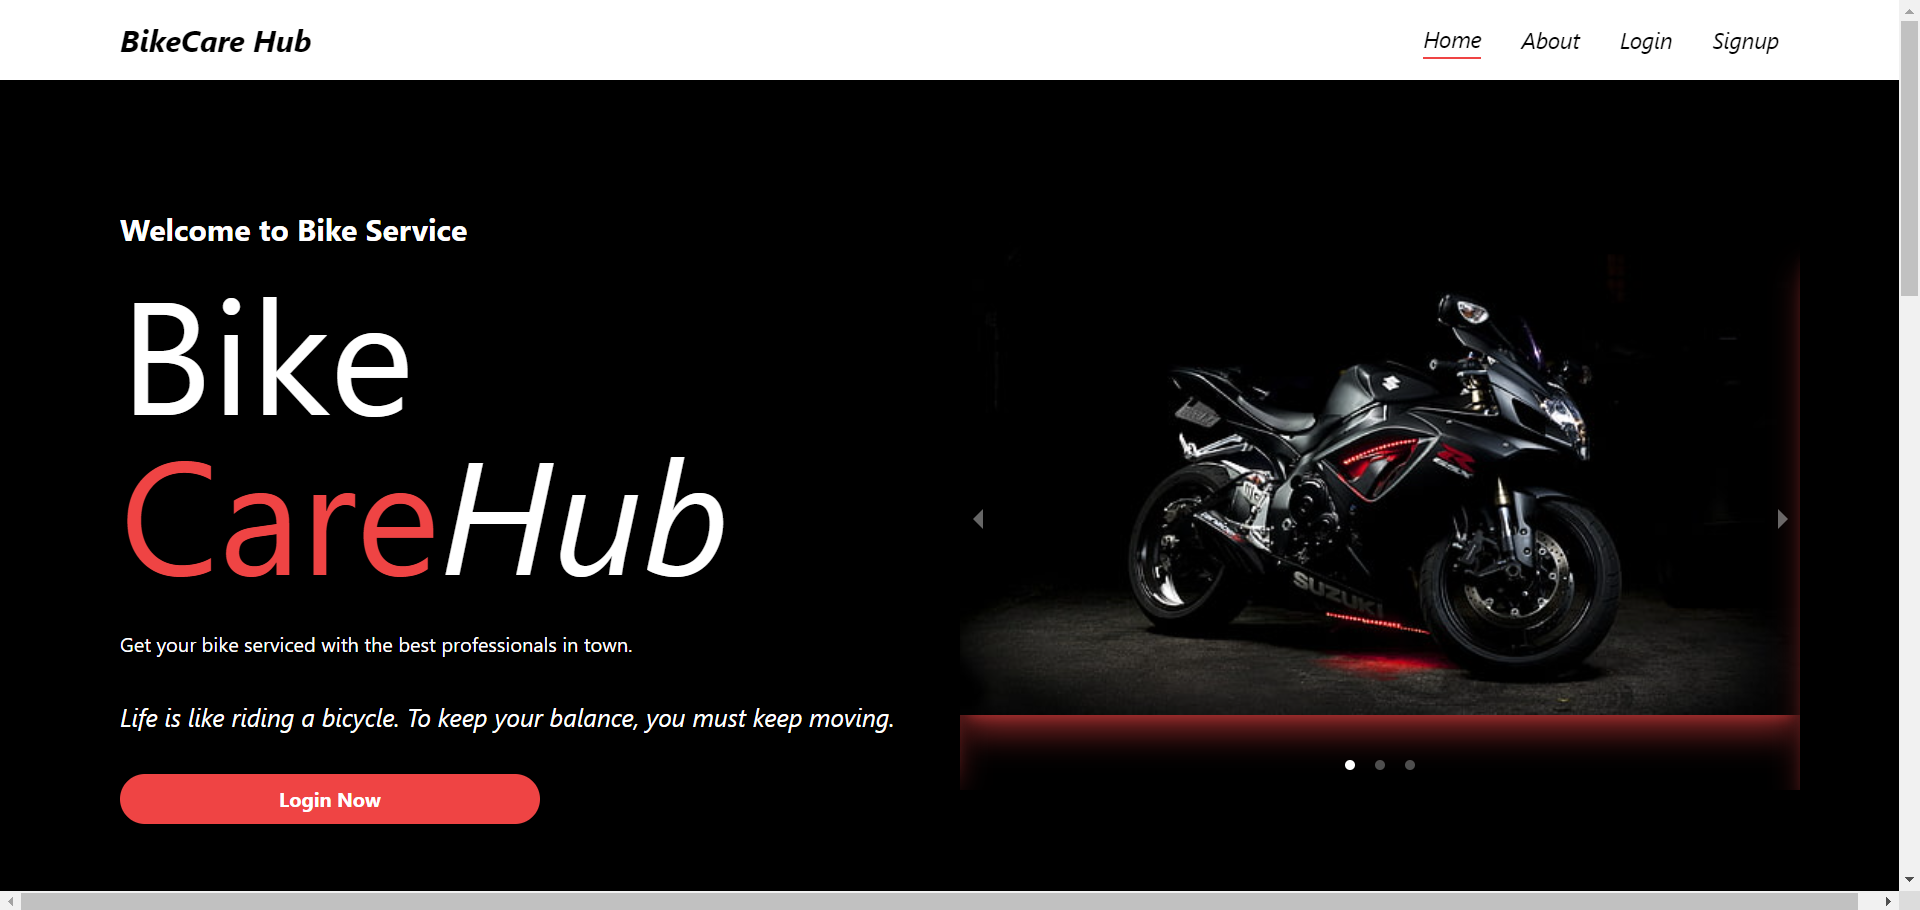
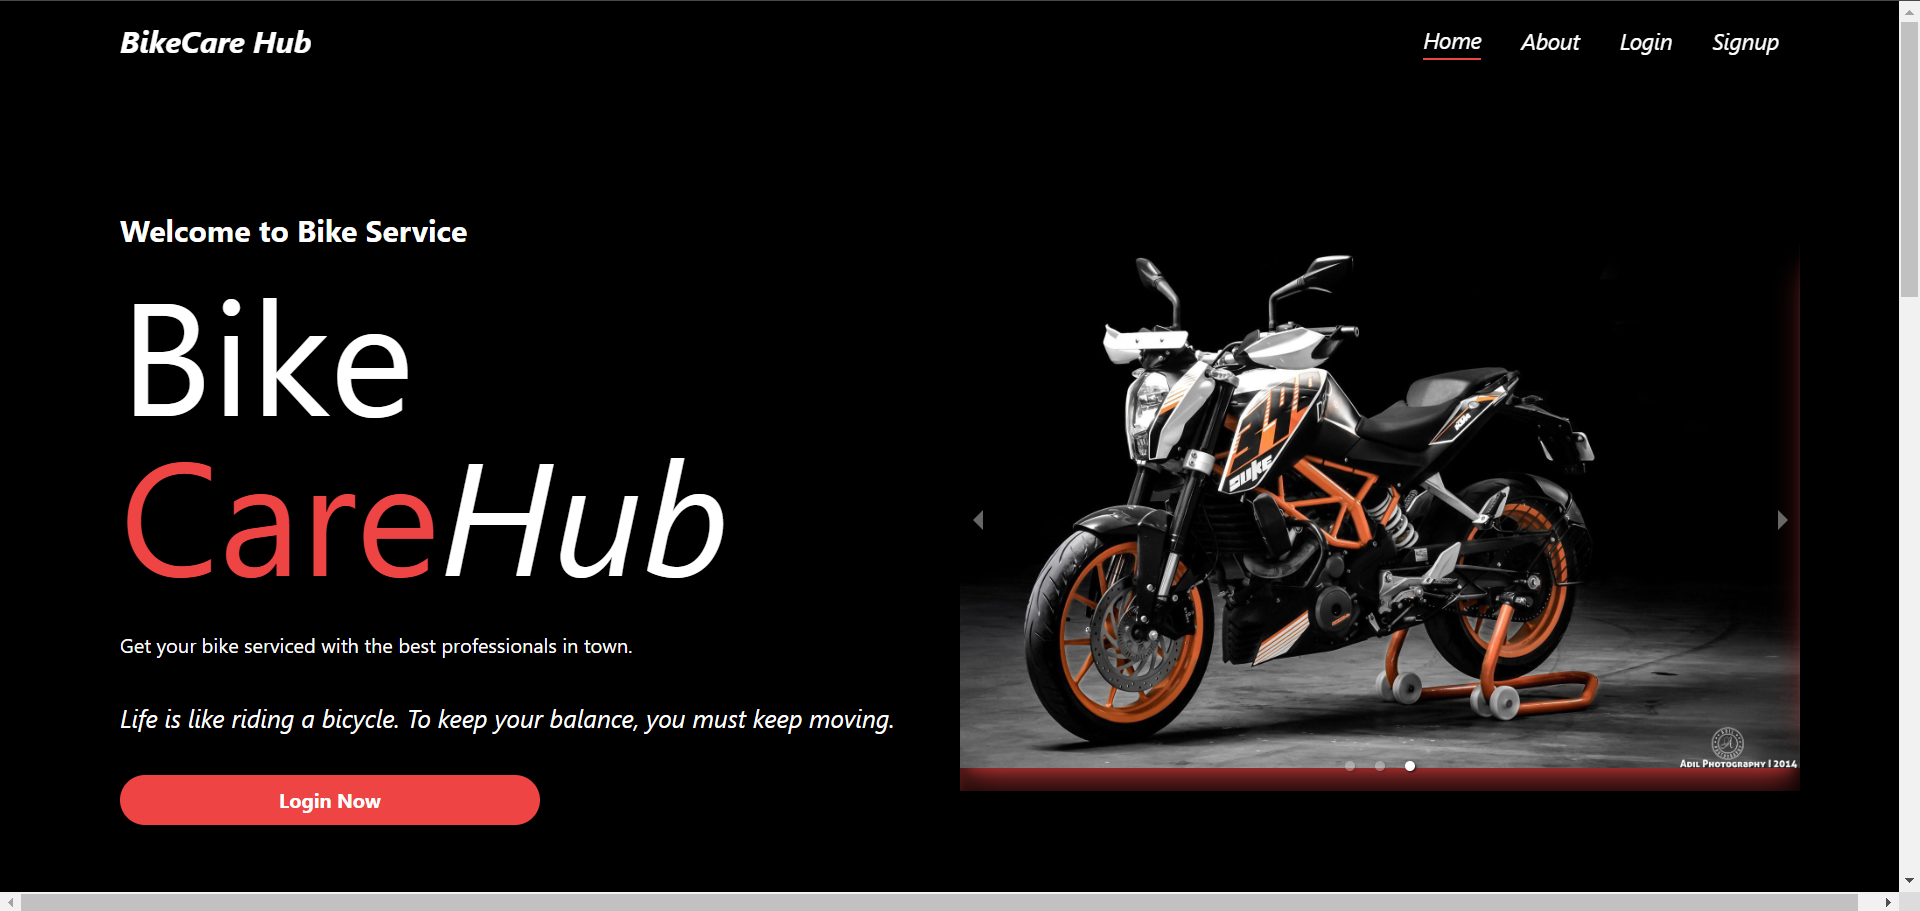
first commit

diff --git a/Client/src/Components/Navbar.jsx b/Client/src/Components/Navbar.jsx
@@ -53,7 +53,7 @@ const Navbar = () => {
   };
 
   return (
-    <nav className="fixed top-0 left-0 w-full bg-white text-black shadow-md z-50 italic">
+    <nav className="fixed top-0 left-0 w-full bg-black text-white shadow-md z-50 italic">
       <div className="flex items-center justify-between py-4 px-7 md:px-10 lg:px-24">
         {/* Logo and Home navigation */}
         <h3 onClick={Home} className="text-2xl font-bold cursor-pointer flex items-center">
@@ -69,7 +69,7 @@ const Navbar = () => {
         </div>
 
         {/* Navigation links */}
-        <ul className={`md:flex md:items-center md:space-x-8 space-y-4 md:space-y-0 absolute md:static left-0 w-full md:w-auto md:pl-0 pl-7 md:top-0 top-16 transition-all duration-500 ${menuOpen ? 'top-16 bg-white' : 'top-[-200px]'} md:bg-transparent`}>
+        <ul className={`md:text-white md:flex md:items-center md:space-x-8 space-y-4 md:space-y-0 absolute md:static left-0 w-full md:w-auto md:pl-0 pl-7 md:top-0 top-16 transition-all duration-500 ${menuOpen ? 'top-16  text-black bg-gray-200'  : 'top-[-200px]'} md:bg-transparent`}>
           <li>
             {/* Home link */}
             <NavLink 
